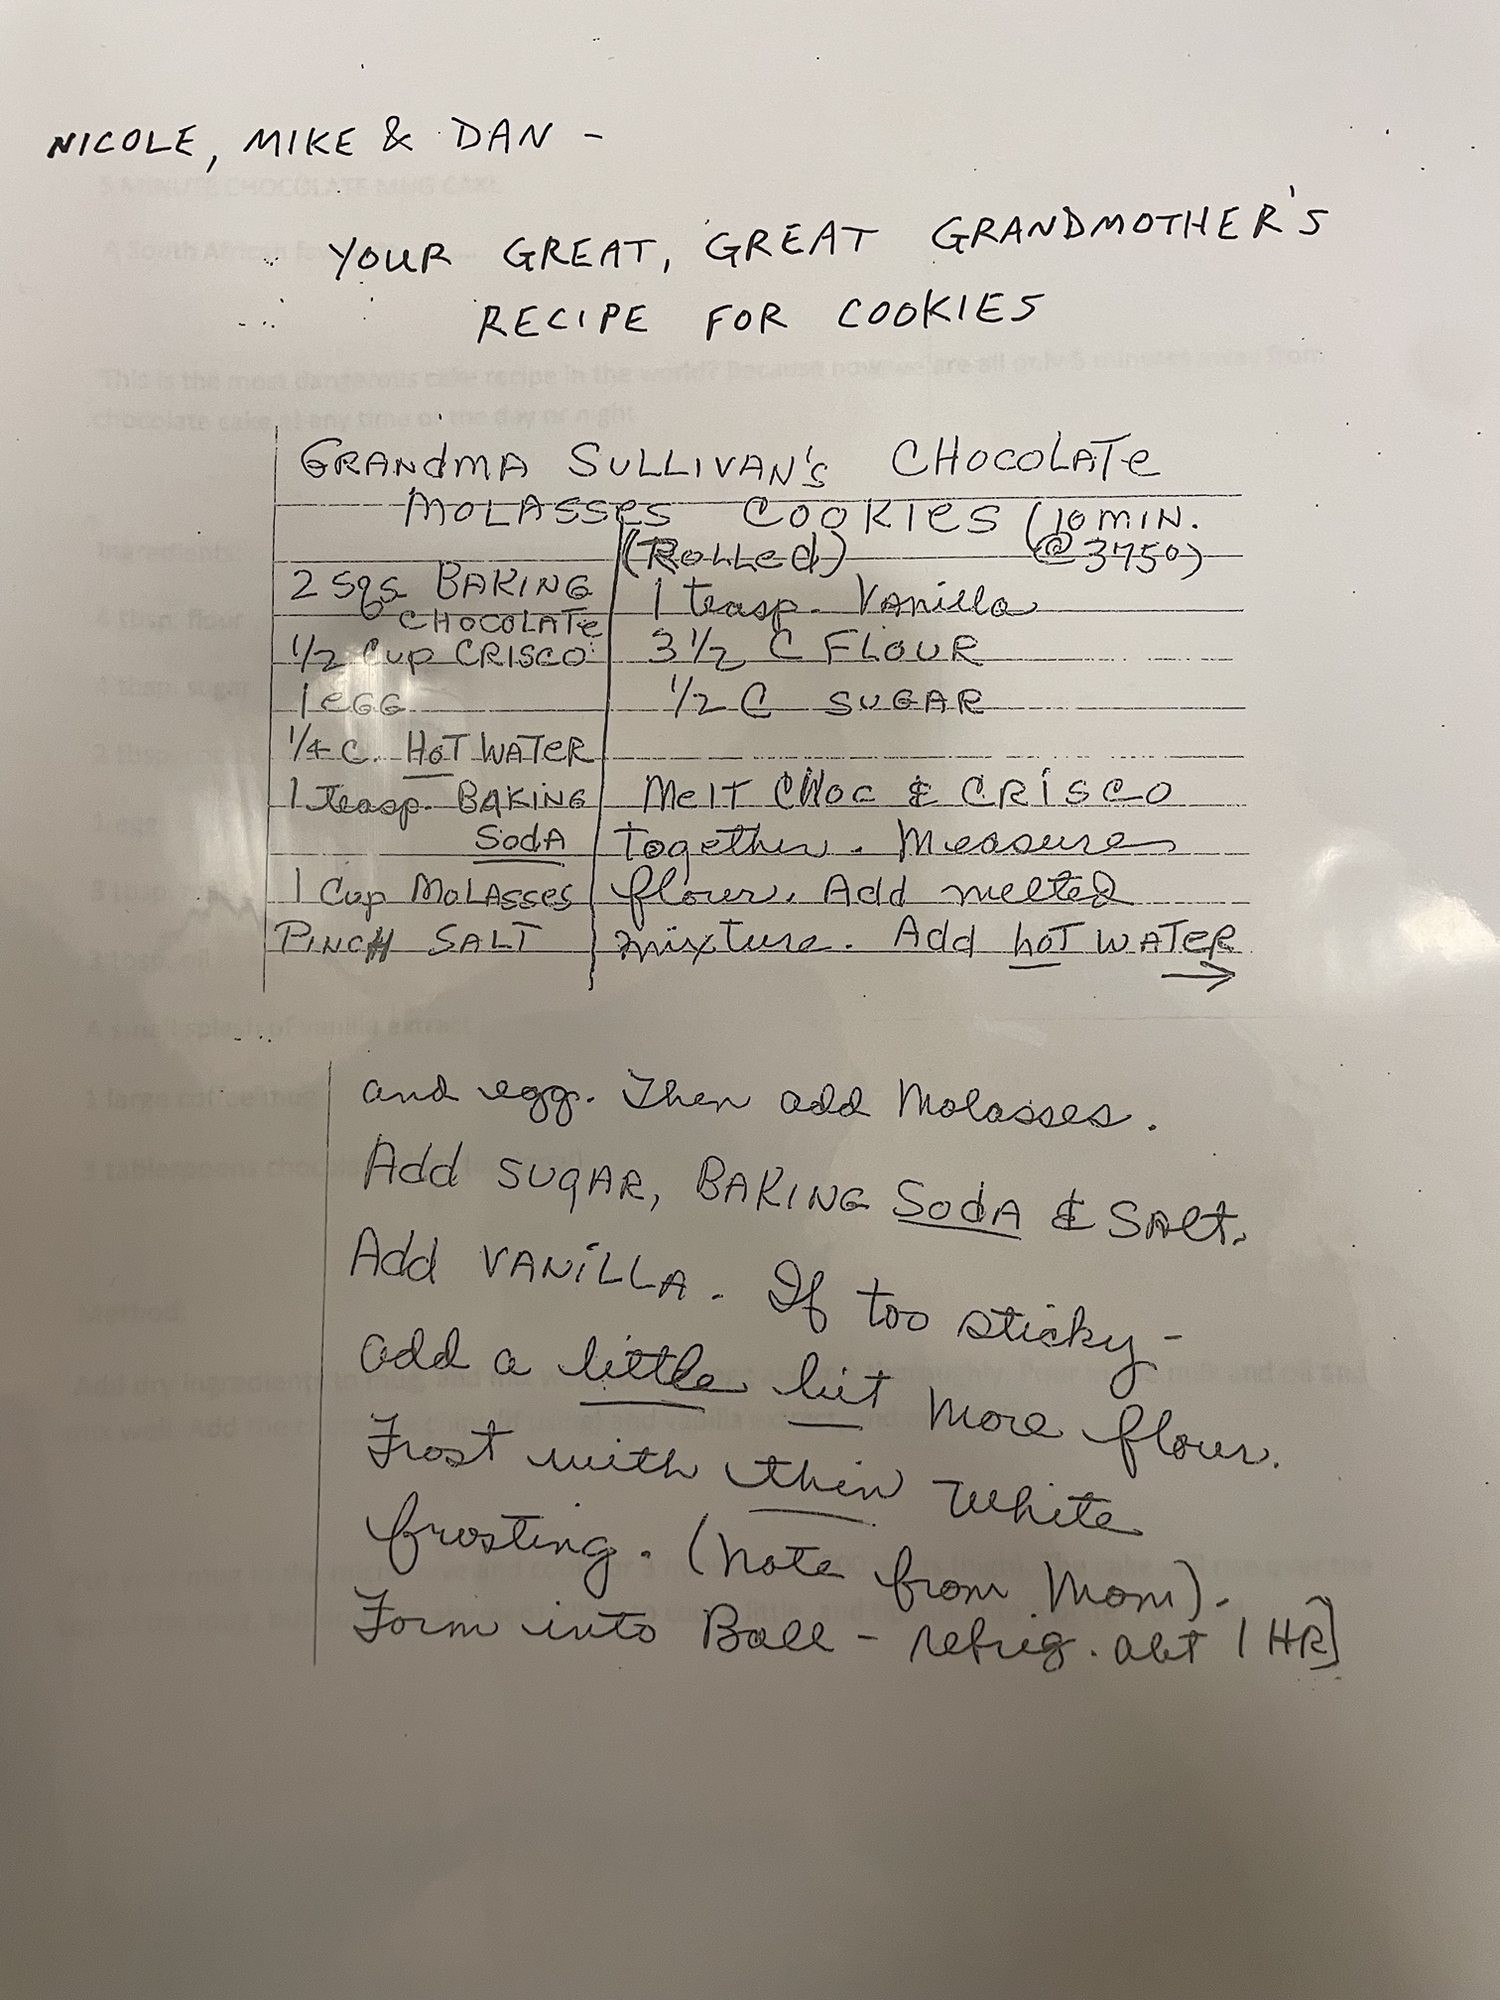
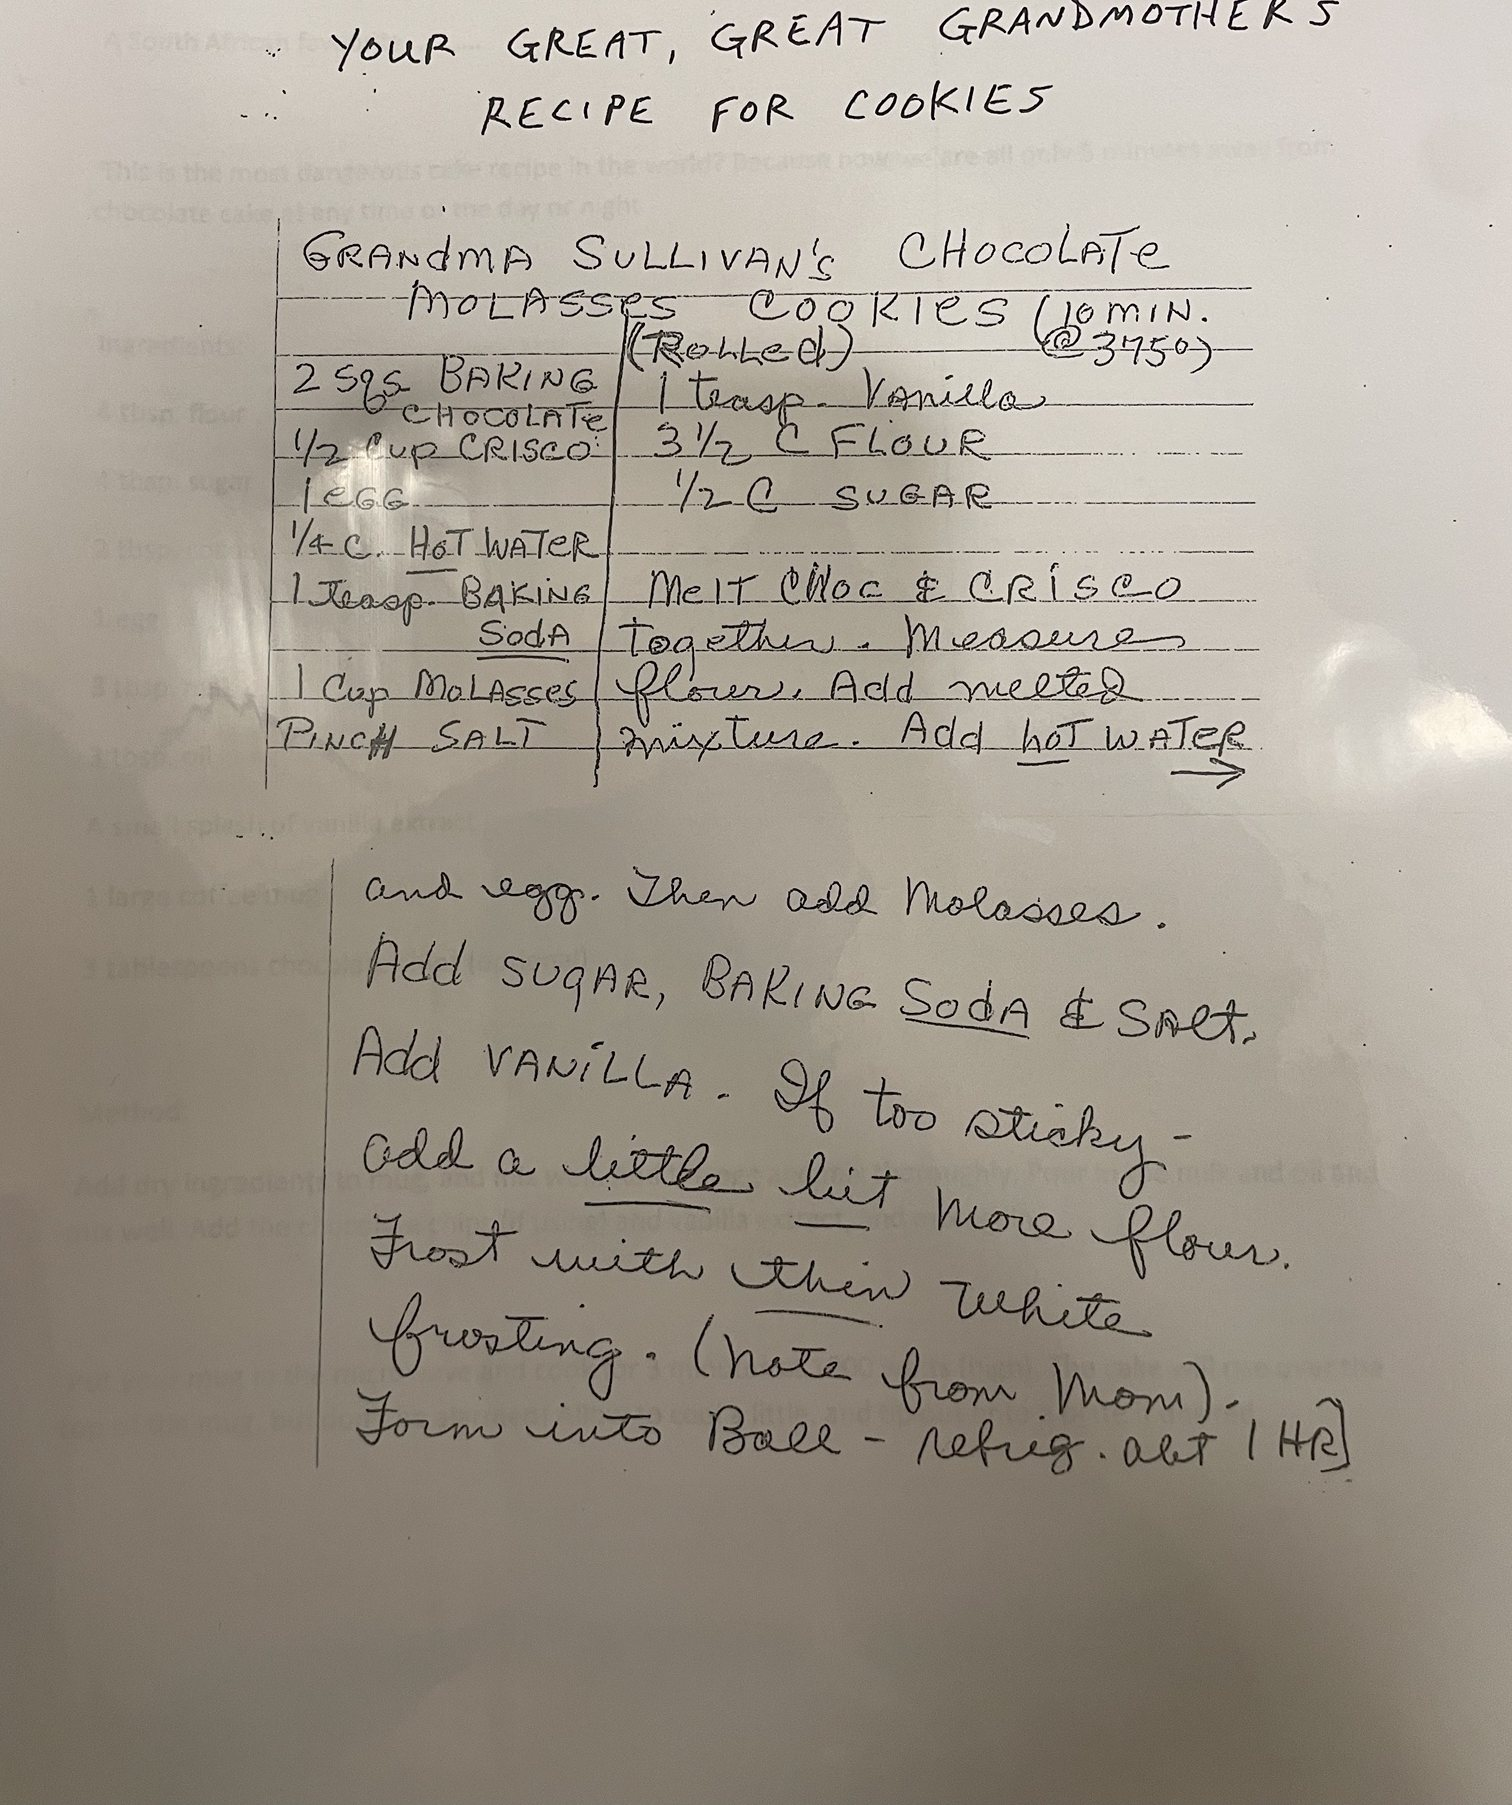
Add letter, beer & wine essay, storage chart; crop names off cookie photo
- pages/: new page type linked from the home page (prose or chart)
- Letter and essay published with names, email address and other
  personal details removed
- Fridge & freezer storage chart with an item filter
- Grandma Sullivan cookie photo cropped to remove the names line

Claude-Session: https://claude.ai/code/session_018c7uo2TopsLaSDbPCc6tUa

diff --git a/site/app.js b/site/app.js
@@ -112,6 +112,8 @@ async function init() {
     ),
   }));
   state.bySlug = new Map(state.recipes.map((r) => [r.slug, r]));
+  state.pages = data.pages || [];
+  state.pageBySlug = new Map(state.pages.map((pg) => [pg.slug, pg]));
 
   const order = (state.book.categories || []).map(String);
   const present = [...new Set(state.recipes.map((r) => r.category))];
@@ -124,6 +126,10 @@ async function init() {
   $('#book-title').textContent = state.book.title || 'Family Cookbook';
   $('#book-subtitle').textContent = state.book.subtitle || '';
   $('#book-subtitle').hidden = !state.book.subtitle;
+  $('#extras').innerHTML = state.pages
+    .map((pg) => `<a href="#/page/${encodeURIComponent(pg.slug)}">${esc(pg.link || pg.title)}</a>`)
+    .join('');
+  $('#extras').hidden = !state.pages.length;
 
   bindHome();
   bindRecipeView();
@@ -132,12 +138,15 @@ async function init() {
 }
 
 // ---------------------------------------------------------------------------
-// Routing:  #/  -> home,  #/recipe/<slug>  -> recipe
+// Routing:  #/  -> home,  #/recipe/<slug>  -> recipe,  #/page/<slug>  -> letter, chart...
 // ---------------------------------------------------------------------------
 function route() {
-  const m = location.hash.match(/^#\/recipe\/([^/?#]+)/);
-  const recipe = m && state.bySlug.get(decodeURIComponent(m[1]));
+  const m = location.hash.match(/^#\/(recipe|page)\/([^/?#]+)/);
+  const slug = m && decodeURIComponent(m[2]);
+  const recipe = m && m[1] === 'recipe' && state.bySlug.get(slug);
+  const page = m && m[1] === 'page' && state.pageBySlug.get(slug);
   if (recipe) showRecipe(recipe);
+  else if (page) showPage(page);
   else showHome();
 }
 
@@ -152,6 +161,21 @@ function showHome() {
   renderChips();
   renderResults();
   if (wasHidden) requestAnimationFrame(() => window.scrollTo(0, state.homeScroll));
+}
+
+function showPage(pg) {
+  if (!$('#home').hidden) {
+    state.homeScroll = window.scrollY;
+    state.cameFromHome = true;
+  }
+  setWake(false);
+  $('#home').hidden = true;
+  $('#recipe').hidden = false;
+  $('#recipe').innerHTML = pageHTML(pg);
+  bindBack();
+  bindChartFilter();
+  document.title = `${pg.title} · ${state.book.title || 'Family Cookbook'}`;
+  window.scrollTo(0, 0);
 }
 
 function showRecipe(r) {
@@ -426,6 +450,7 @@ function notesHTML(text) {
     .split(/\n\s*\n/)
     .map((block) => {
       const lines = block.split('\n').map((l) => l.trim()).filter(Boolean);
+      if (lines.length === 1 && lines[0].startsWith('## ')) return `<h2>${rich(lines[0].slice(3))}</h2>`;
       if (lines.length && lines.every((l) => /^[-*•]\s/.test(l))) {
         return `<ul>${lines.map((l) => `<li>${rich(l.replace(/^[-*•]\s+/, ''))}</li>`).join('')}</ul>`;
       }
@@ -451,14 +476,86 @@ function bindRecipeView() {
   });
 }
 
-// Handlers on elements that are re-created with each recipe.
-function bindRecipe(r) {
-  const view = $('#recipe');
-
-  $('#back', view).addEventListener('click', () => {
+function bindBack() {
+  $('#back').addEventListener('click', () => {
     if (state.cameFromHome) history.back();
     else location.hash = '#/';
   });
+}
+
+// ---------------------------------------------------------------------------
+// Extra pages: letter, essay, storage chart
+// ---------------------------------------------------------------------------
+function pageHTML(pg) {
+  const cols = pg.columns.length;
+  const chart = pg.sections.length
+    ? `<div class="search chart-filter">
+        <svg class="search-icon" viewBox="0 0 24 24" aria-hidden="true"><circle cx="11" cy="11" r="7"/><path d="m20 20-3.5-3.5"/></svg>
+        <input id="chart-filter" type="search" placeholder="Find an item (bacon, ham…)" autocomplete="off" aria-label="Find an item in the chart">
+      </div>
+      <table class="chart">
+        <thead><tr>${pg.columns.map((c) => `<th scope="col">${esc(c)}</th>`).join('')}</tr></thead>
+        ${pg.sections
+          .map(
+            (sec) => `<tbody data-sec>
+              <tr class="chart-sec"><th colspan="${cols}" scope="colgroup">${esc(sec.name)}</th></tr>
+              ${sec.rows
+                .map(
+                  (row) =>
+                    `<tr data-row="${esc(fold(`${sec.name} ${row[0]}`))}">${row
+                      .map((c, i) => (i === 0 ? `<th scope="row">${esc(c)}</th>` : `<td>${esc(c)}</td>`))
+                      .join('')}</tr>`,
+                )
+                .join('')}
+            </tbody>`,
+          )
+          .join('')}
+      </table>
+      <p class="chart-empty" hidden>Nothing in the chart matches that.</p>`
+    : '';
+
+  return `
+    <div class="recipe-bar">
+      <div class="wrap recipe-bar-inner">
+        <button type="button" class="back" id="back">${ICON.back}<span>All recipes</span></button>
+      </div>
+    </div>
+    <article class="wrap page">
+      <header class="page-head">
+        <p class="eyebrow">From the binder</p>
+        <h1>${esc(pg.title)}</h1>
+        ${pg.intro ? `<p class="lede">${rich(pg.intro)}</p>` : ''}
+      </header>
+      ${pg.body ? `<div class="prose">${notesHTML(pg.body)}</div>` : ''}
+      ${chart}
+      ${pg.outro ? `<p class="page-outro">${rich(pg.outro)}</p>` : ''}
+    </article>`;
+}
+
+function bindChartFilter() {
+  const input = $('#chart-filter');
+  if (!input) return;
+  input.addEventListener('input', () => {
+    const tokens = fold(input.value).split(/\s+/).filter(Boolean);
+    let shown = 0;
+    document.querySelectorAll('.chart tbody[data-sec]').forEach((sec) => {
+      let any = false;
+      sec.querySelectorAll('tr[data-row]').forEach((tr) => {
+        const hit = tokens.every((t) => tr.dataset.row.includes(t));
+        tr.hidden = !hit;
+        if (hit) any = true;
+      });
+      sec.hidden = !any;
+      if (any) shown++;
+    });
+    $('.chart-empty').hidden = shown > 0;
+  });
+}
+
+// Handlers on elements that are re-created with each recipe.
+function bindRecipe(r) {
+  const view = $('#recipe');
+  bindBack();
 
   $('#table-toggle', view).addEventListener('change', (e) => {
     state.tableView = e.target.checked;

diff --git a/site/styles.css b/site/styles.css
@@ -425,6 +425,60 @@ svg { flex: none; }
 .tag:hover { border-color: var(--accent); color: var(--accent); }
 
 /* ==========================================================================
+   Extra pages: letter, essay, storage chart
+   ========================================================================== */
+.extras { display: flex; flex-wrap: wrap; gap: 0.5rem; margin-top: 1rem; }
+.extras a {
+  display: inline-flex; align-items: center;
+  min-height: 2.5rem; padding: 0 0.95rem;
+  border: 1px solid var(--line); border-radius: 999px;
+  background: var(--surface); color: var(--ink);
+  font-size: 0.95rem; font-weight: 600; text-decoration: none;
+}
+.extras a:hover { border-color: var(--accent); color: var(--accent); }
+
+.page { padding: 1.75rem 0 4rem; }
+.page-head { display: grid; gap: 0.6rem; max-width: 46rem; margin-bottom: 1.75rem; }
+.page-head h1 { font-size: clamp(2.1rem, 7vw, 3.25rem); font-weight: 650; }
+
+.prose { max-width: 40rem; font-size: 1.125rem; line-height: 1.7; }
+.prose p + p, .prose ul, .prose p + ul { margin-top: 1rem; }
+.prose h2 { font-size: 1.4rem; margin: 2.25rem 0 0.75rem; }
+.prose h2:first-child { margin-top: 0; }
+.prose ul { padding-left: 1.25rem; }
+.page-outro { margin-top: 2rem; padding-top: 1rem; border-top: 1px solid var(--line); color: var(--muted); max-width: 40rem; }
+
+.chart-filter { max-width: 26rem; margin-bottom: 1rem; }
+.chart {
+  width: 100%; max-width: 46rem;
+  border-collapse: collapse;
+  background: var(--surface);
+  border: 1px solid var(--line);
+  font-size: 1rem; line-height: 1.35;
+}
+.chart th, .chart td { padding: 0.55rem 0.75rem; text-align: left; vertical-align: top; border-top: 1px solid var(--line); }
+.chart thead th {
+  position: sticky; top: var(--bar-h); z-index: 1;
+  background: var(--surface);
+  font-family: var(--sans); font-size: 0.75rem; font-weight: 700;
+  letter-spacing: 0.08em; text-transform: uppercase; color: var(--muted);
+  box-shadow: inset 0 -2px 0 var(--line);
+}
+.chart tbody th[scope="row"] { font-weight: 400; }
+.chart td { width: 26%; font-variant-numeric: tabular-nums; }
+.chart-sec th {
+  background: var(--accent-soft); color: var(--accent-strong);
+  font-family: var(--serif); font-size: 1.05rem; font-weight: 600;
+  padding-top: 0.7rem;
+}
+.chart-empty { margin-top: 1rem; color: var(--muted); }
+
+@media (max-width: 40rem) {
+  .chart { font-size: 0.95rem; }
+  .chart th, .chart td { padding: 0.5rem 0.5rem; }
+}
+
+/* ==========================================================================
    Motion, print
    ========================================================================== */
 @media (prefers-reduced-motion: reduce) {
@@ -433,7 +487,8 @@ svg { flex: none; }
 
 @media print {
   :root { --bg: #fff; --surface: #fff; --ink: #000; --muted: #444; --line: #bbb; --rule: #000; --accent: #000; --accent-strong: #000; --accent-soft: #eee; }
-  .recipe-bar, .toggles, .tags, .flow-hint, .skip, .scans figcaption { display: none !important; }
+  .recipe-bar, .toggles, .tags, .flow-hint, .skip, .scans figcaption, .chart-filter { display: none !important; }
+  .chart thead th { position: static; }
   .recipe { padding-top: 0; }
   .ingredients { position: static; border: 0; padding: 0; }
   .ingredients input { display: none; }

diff --git a/site/index.html b/site/index.html
@@ -24,6 +24,7 @@
       <header class="hero wrap">
         <h1 id="book-title">Family Cookbook</h1>
         <p id="book-subtitle" class="hero-sub"></p>
+        <nav id="extras" class="extras" aria-label="From the binder" hidden></nav>
       </header>
 
       <div class="finder">

diff --git a/CLAUDE.md b/CLAUDE.md
@@ -61,5 +61,9 @@ build (validation + table layout).
   names the person (e.g. "Gramma Florence"), or it's from a published source.
 - Only magazine recipes the family circled/boxed get transcribed; other recipes on the same
   page are skipped unless the user asks.
-- The "essay on beer and wine" page is a personal email with a full name and email address.
-  Don't publish those.
+- Non-recipe pages (the letter, the beer & wine essay, the storage chart) live in `pages/*.yml`
+  and are linked from the top of the home page. Fields: `title`, `link`, `order`, `intro`,
+  `body` (paragraphs; `## ` lines are headings), `outro`, or `columns` + `sections` for a chart.
+- The letter and essay are published with names, the email address and other personal details
+  removed (user's request). Keep it that way when editing them, and crop names/addresses off
+  photos before committing.

diff --git a/README.md b/README.md
@@ -66,6 +66,7 @@ npm run check      # validate recipes only
 
 ```
 recipes/        one .yml per recipe (files starting with _ are ignored)
+pages/          the letter, the beer & wine essay, the storage chart
 images/         card scans and food photos
 cookbook.yml    site title, subtitle, category order
 site/           the web app (HTML/CSS/JS, no framework)
